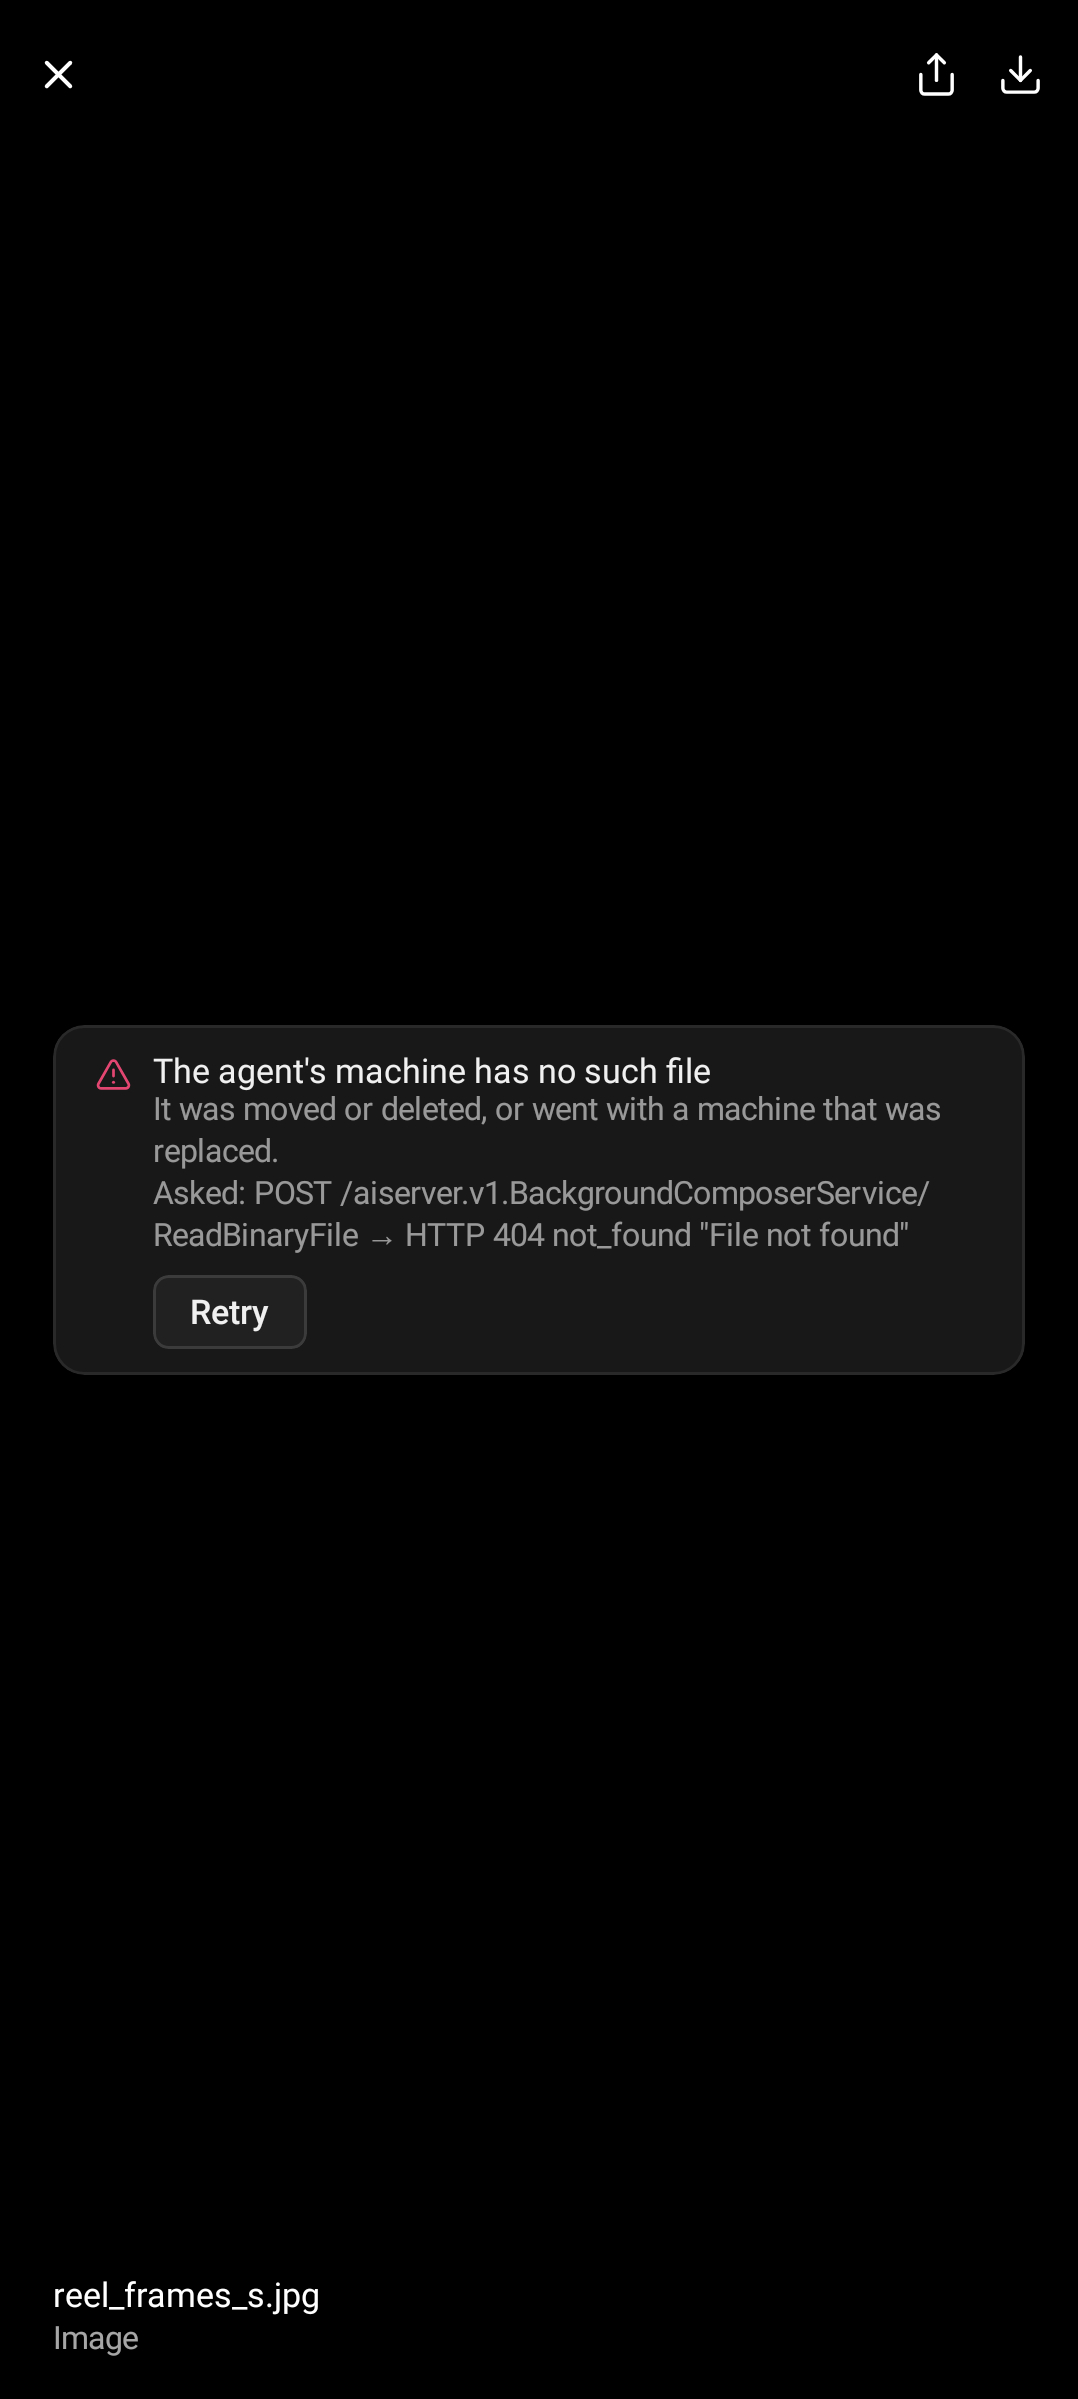
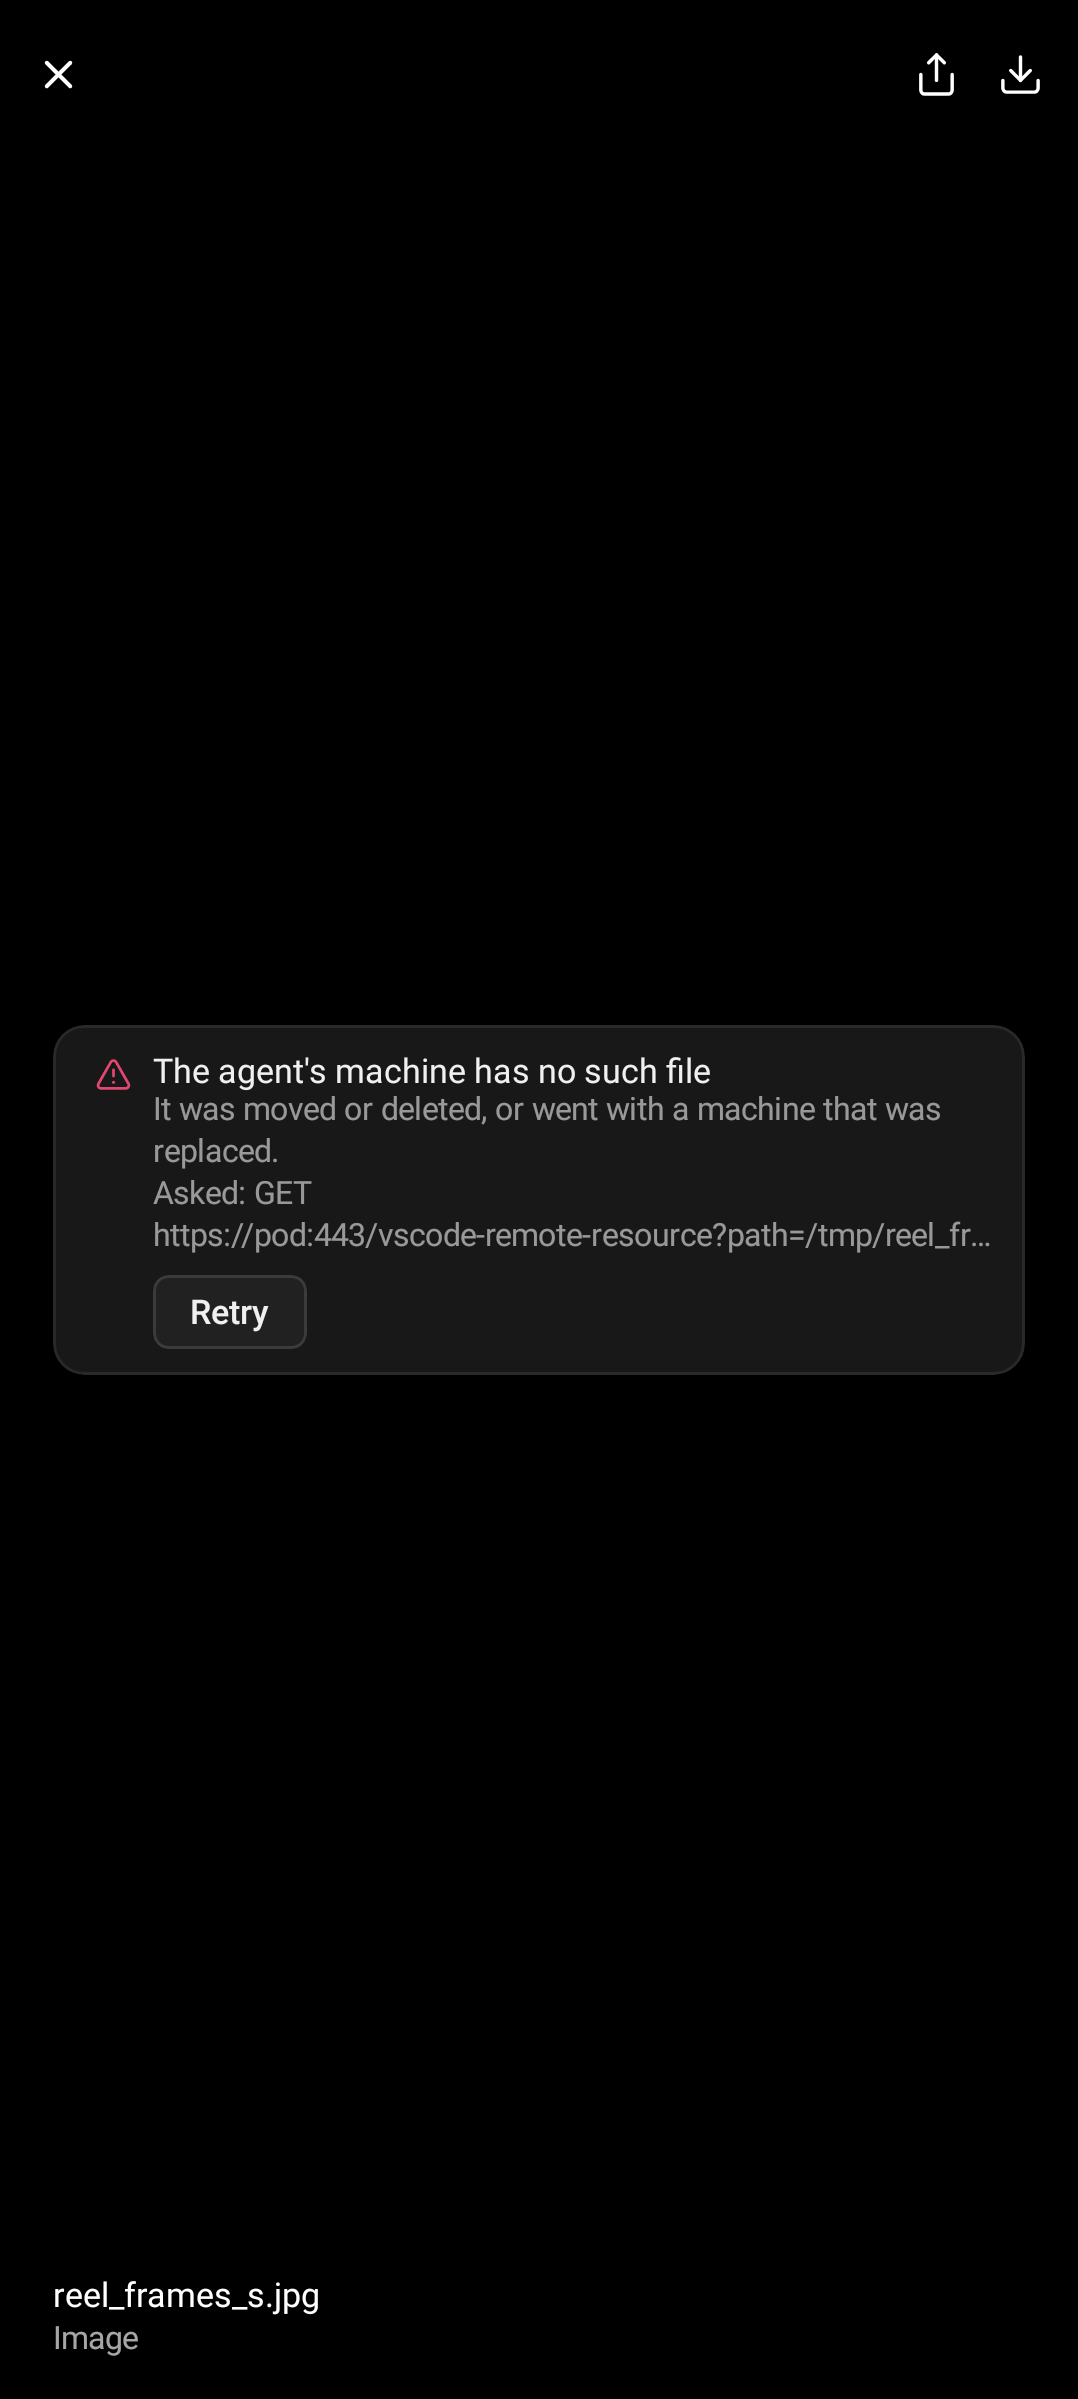
Frame 192: the missing /tmp file now goes through the cursor-server, so its Asked line is the remote-resource GET

Changed region(s): [[0.1531, 0.4935, 0.8878, 0.5244]]

diff --git a/app/src/test/java/com/cursorforandroid/screenshots/TmpImageOpenScreenshotTest.kt b/app/src/test/java/com/cursorforandroid/screenshots/TmpImageOpenScreenshotTest.kt
@@ -21,6 +21,9 @@ import androidx.test.core.app.ApplicationProvider
 import androidx.test.ext.junit.runners.AndroidJUnit4
 import com.cursorforandroid.data.FakeCursorApi
 import com.cursorforandroid.data.api.ConnectRpcException
+import com.cursorforandroid.data.api.CursorServer
+import com.cursorforandroid.data.api.CursorServerFiles
+import com.cursorforandroid.data.api.CursorServerReadException
 import com.cursorforandroid.data.api.DiffDetailsApi
 import com.cursorforandroid.data.api.WorkspaceFilesApi
 import com.cursorforandroid.data.media.MediaLoader
@@ -80,12 +83,21 @@ class TmpImageOpenScreenshotTest {
         override suspend fun diffDetails(agentId: String) = AgentDiff(null, null, emptyList())
     }
 
-    private fun loader(machine: Machine): MediaLoader {
+    /** A cursor-server that answers `not_found` for the remote-resource read (a /tmp file the machine no longer has). */
+    private class MissingServer : CursorServerFiles {
+        override suspend fun server(agentId: String, commit: String, connectionToken: String) = CursorServer("pod", 443, connectionToken, emptyList())
+        override suspend fun read(server: CursorServer, path: String): ByteArray =
+            throw CursorServerReadException(404, "GET https://pod:443/vscode-remote-resource?path=$path → HTTP 404 \"File not found\"", "no such file")
+    }
+
+    private fun loader(machine: Machine, server: CursorServerFiles? = null): MediaLoader {
         val context = ApplicationProvider.getApplicationContext<Context>()
         val files = AgentFileRepository(
             WorkspaceRepository(machine, machine, capabilities = { Capabilities.EXTENDED }),
             repository = { _, _, _ -> Result.failure(IOException("unused")) },
             agent = { agentOn(ViewerFixtures.AGENT) },
+            cursorServer = server,
+            mintToken = { "minted" },
         )
         return MediaLoader(context, OkHttpClient(), ArtifactRepository(api = { FakeCursorApi() }), files = { files })
     }
@@ -142,7 +154,7 @@ class TmpImageOpenScreenshotTest {
     /** The machine answered `not_found` on HTTP 404: the missing file it is, with the request and Retry. */
     @Test
     fun tmpPictureNotOnTheMachine() {
-        open(loader(Machine({ ConnectRpcException(404, "not_found", "File not found", path = readPath) })), readOf("/tmp/reel_frames_s.jpg"), until = "viewer-error")
+        open(loader(Machine({ ConnectRpcException(400, "invalid_argument", "File path must stay within the workspace.", path = readPath) }), server = MissingServer()), readOf("/tmp/reel_frames_s.jpg"), until = "viewer-error")
         capture("192_tmp_image_missing_file")
     }
 }
